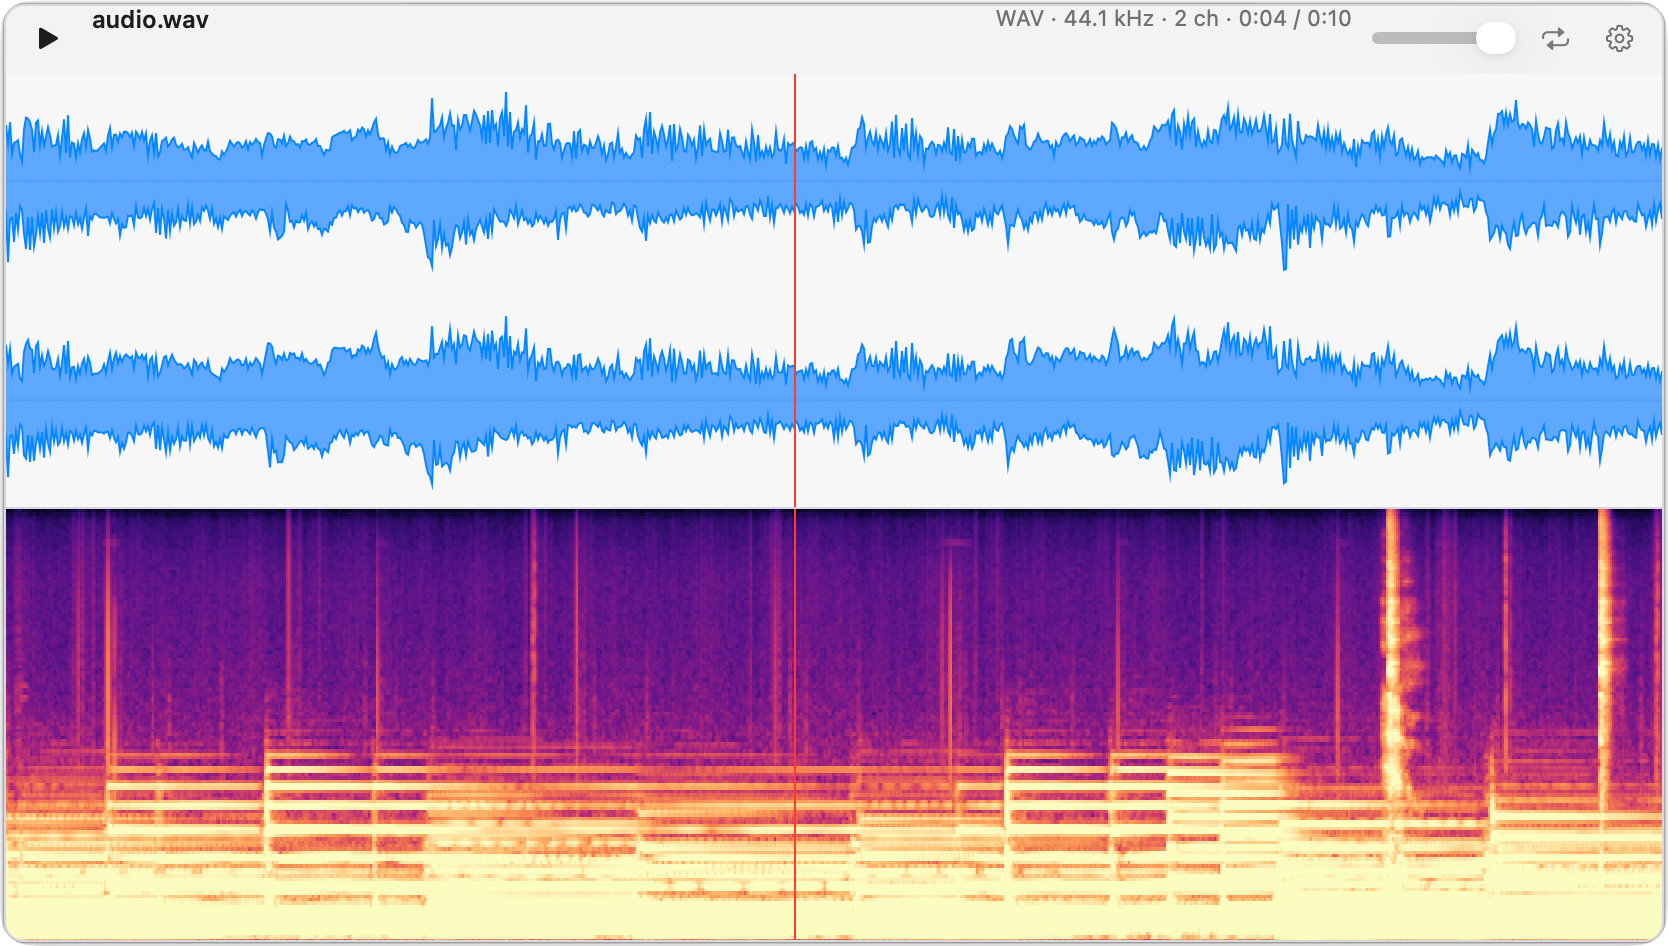
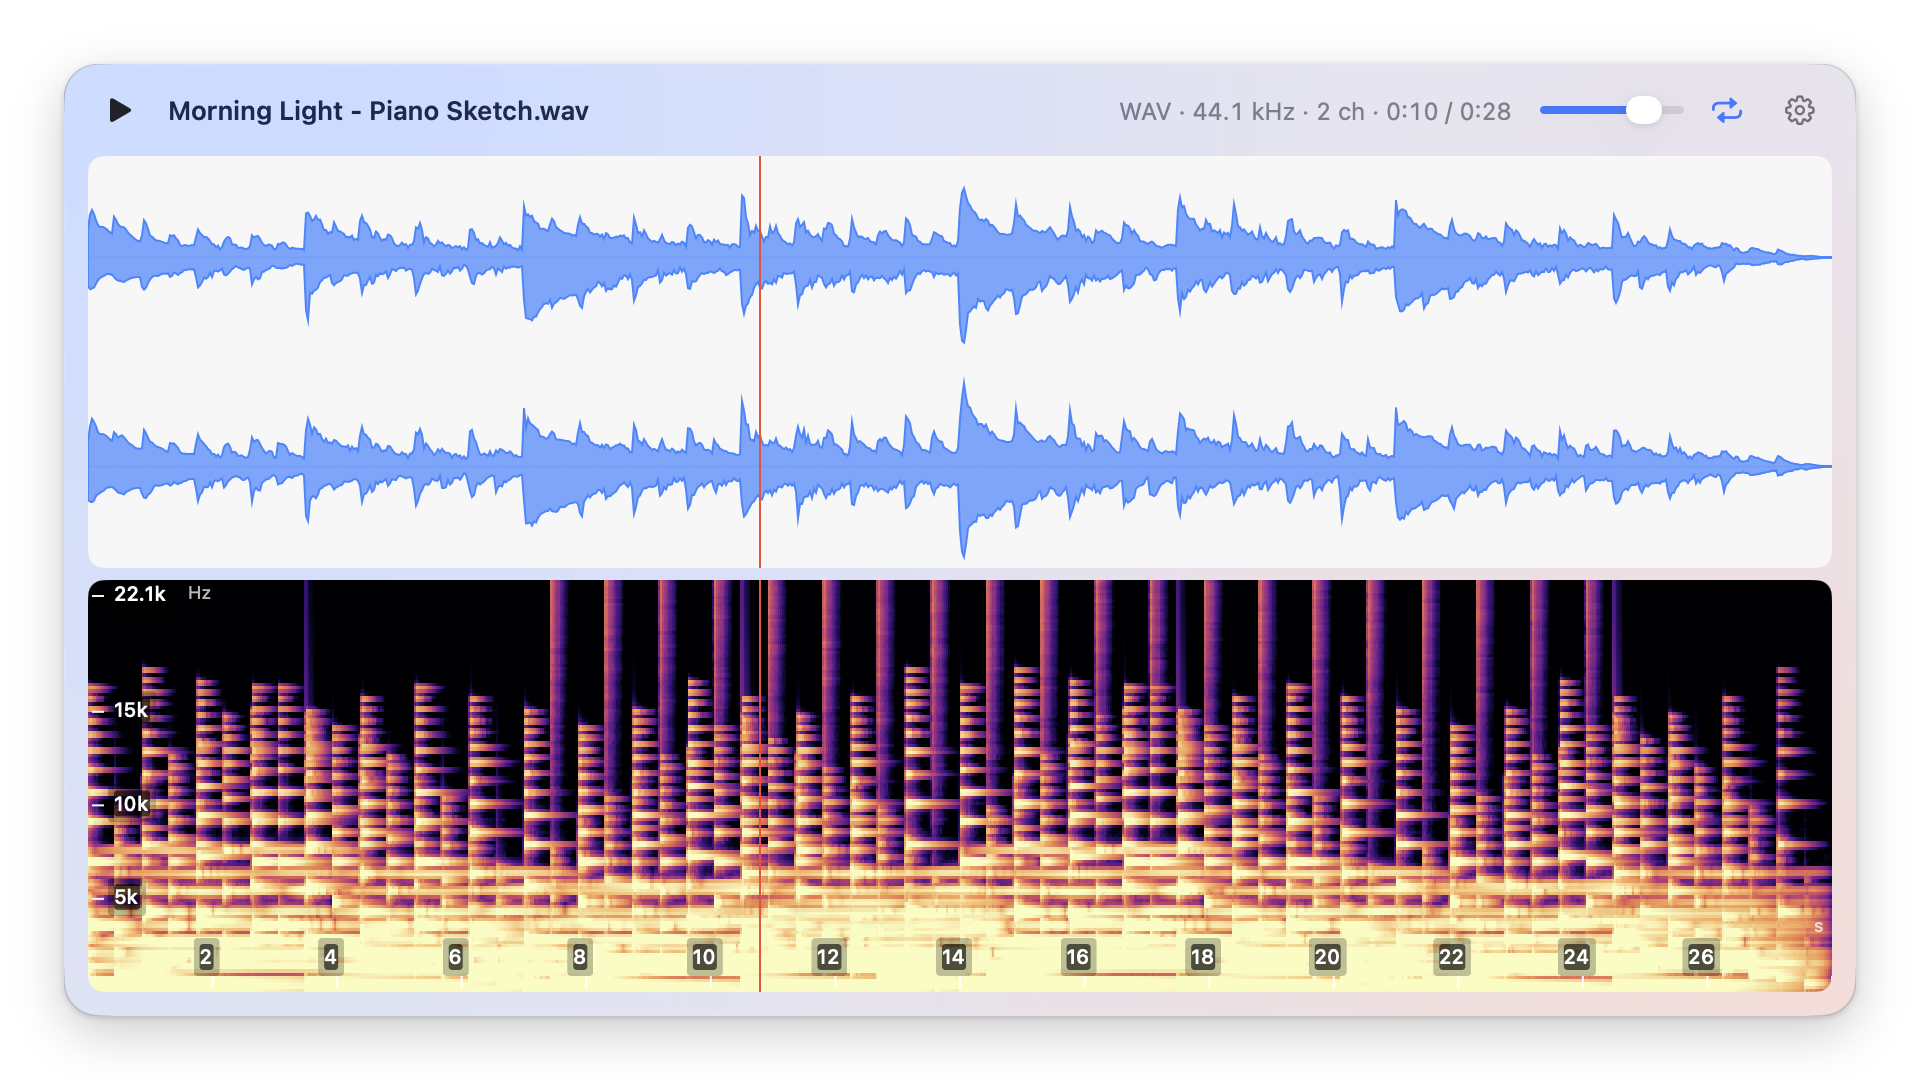
Bump to 2.3 and refresh the README picture and Settings section

diff --git a/README.md b/README.md
@@ -9,7 +9,10 @@ AudioPeek is a lightweight app designed to supplement the audio preview on Mac.
 When previewing audio files on Mac, have you ever wished you could see more than just a scrub bar? AudioPeek allows audio previews to render the waveform *and* spectrogram, filling the gap between a bare bones audio preview and having to import files into a professional audio application.
 
 <p align="center">
-  <img alt="AudioPeek" src="audiopeek-preview.png">
+  <picture>
+    <source media="(prefers-color-scheme: dark)" srcset="audiopeek-preview-dark.png">
+    <img alt="The AudioPeek preview panel showing a waveform above a spectrogram" src="audiopeek-preview.png">
+  </picture>
 </p>
 
 
@@ -33,7 +36,7 @@ You only need to do this once. Apple walks through the same steps in [Safely ope
 AudioPeek needs to ask Finder which file you have selected. The first time you press the shortcut, macOS asks:
 > "AudioPeek" wants access to control "Finder".
 
-Click **Allow**. If you clicked **Don't Allow**, a **Finder access** section appears at the top of AudioPeek's Settings. Click **Open Automation** there. That opens the Mac's Automation settings. Turn on **Finder** under AudioPeek, then press the shortcut again.
+Click **Allow**. If you clicked **Don't Allow**, a **Finder access** section appears at the top of the General tab in AudioPeek's Settings. Click **Open Automation** there. That opens the Mac's Automation settings. Turn on **Finder** under AudioPeek, then press the shortcut again.
 
 
 ## How to use it
@@ -68,24 +71,25 @@ For video files (`.mp4`), AudioPeek only shows and plays the audio. Long files w
 
 ## Settings
 
-Open Settings from the AudioPeek icon in the menu bar, or from the gear in the top right of the panel.
+Open Settings from the AudioPeek icon in the menu bar, or from the gear in the top right of the panel. Settings has three tabs:
 
-From there you can:
+- **General**: change the **shortcut** from Option-Space to something else, turn **Open at login** on or off, show or hide the **menu bar icon** and the **Dock icon**, and choose whether to show the **waveform**, the **spectrogram**, or both (and how to split the space).
+- **Waveform**: show every channel separately instead of one combined view (**dual view**), switch between linear and dB amplitude, and pick the waveform color.
+- **Spectrogram**: dual view, the spectrogram type (linear, log frequency, or mel), its colors, and optional **frequency** and **time axes**.
 
-- Change the **shortcut** from Option-Space to something else.
-- Show or hide the **waveform** and **spectrogram**, and adjust layout.
-- Show every channel separately instead of one combined view (**dual view**).
-- Pick the waveform color and the spectrogram colors.
-- Tune the spectrogram (type, resolution, frequency range, and dB range) if you want more control.
-- Show or hide the **menu bar icon** and the **Dock icon**.
+Each tab ends with a collapsed **Advanced** section:
 
-**Reset** puts every setting back to how it started (volume and panel location remain unchanged).
+- **General** has **Full detail**, which reads every sample even for files longer than 30 seconds, and **Reset All Settings**, which puts every setting on all three tabs back to how it started.
+- **Spectrogram** has the analysis controls (FFT size, hop, window, number of mel bands, frequency range, and dB range) if you want more control.
+- **Waveform** and **Spectrogram** each have a reset that only touches that tab.
+
+Resetting never changes the volume or the panel's size and position.
 
 #### Accidentally hid both icons?
 If you turned off the menu bar icon *and* the Dock icon, open AudioPeek again from Applications (or Spotlight) and Settings will be displayed.
 
 #### Open at login
-AudioPeek turns on **Open at login** the first time it opens a file, so the shortcut is always ready. You can turn it off in Settings. If macOS doesn't allow it, Settings shows an **Open Login Items** button. Click it and add AudioPeek to the list.
+AudioPeek turns on **Open at login** the first time it opens a file, so the shortcut is always ready. You can turn it off in Settings. Next to it is an **Open Login Items** button that takes you to the Mac's Login Items settings. If macOS doesn't allow AudioPeek to add itself, Settings says so: click the button and add AudioPeek to the list.
 
 
 ## Updating
